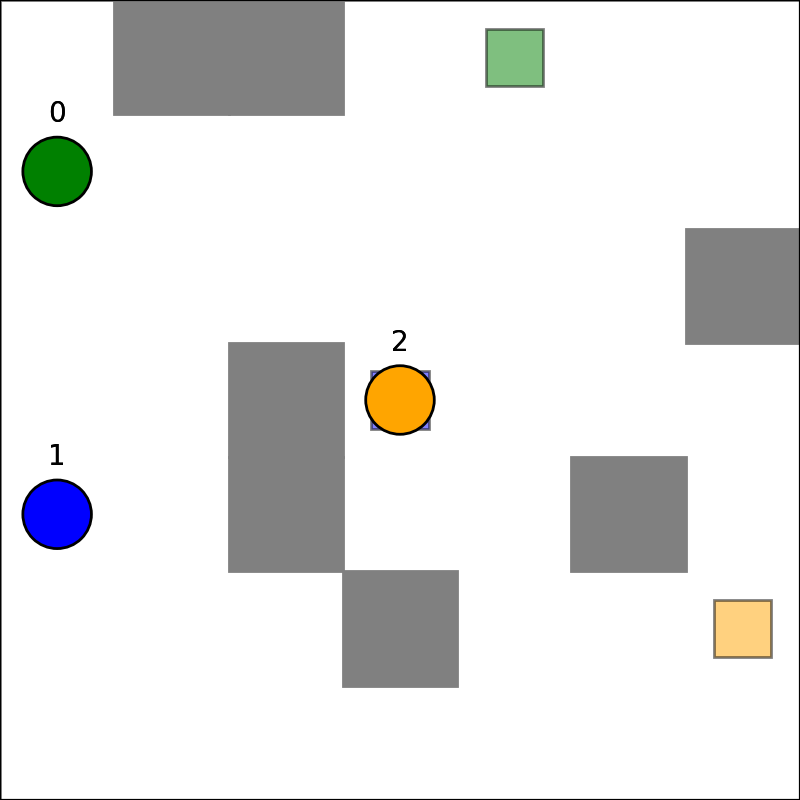
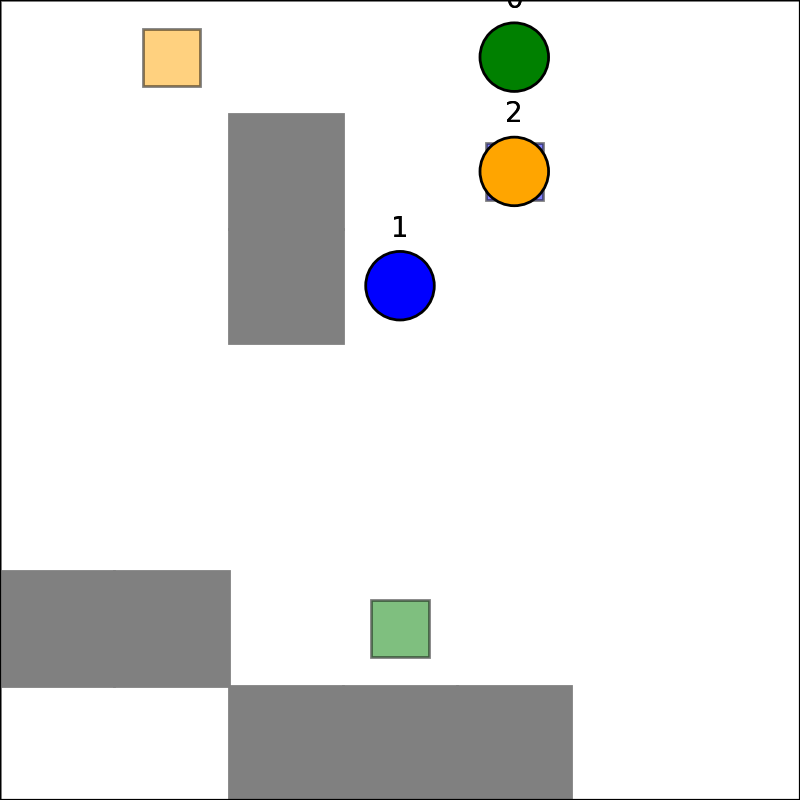
add solution gif to demo

diff --git a/templates/generate.html b/templates/generate.html
@@ -17,6 +17,7 @@
     </div>
 
 
+    <a type="button" class="btn btn-lg btn-primary" href="/figure"><span class="glyphicon glyphicon-download"></span> Let ICBS Solve it!</a>
     <div class="container">
         {% if message %}
             <p class="message">{{ message | safe }}</p>
@@ -29,6 +30,8 @@
             </div>
         </form>
     </div>
+
+
 </div>
 
 <script>

diff --git a/code/run_experiments_demo.py b/code/run_experiments_demo.py
@@ -39,11 +39,11 @@ from pathlib import Path
 
 SOLVER = "ICBS_CB"
 
-def create_plot(instance_file, figure_file):
+def create_plot(instance_file, map_file):
     my_map, starts, goals = import_mapf_instance(instance_file)
     figure = Figure(my_map, starts, goals)
     # figure.show()
-    figure.save(figure_file)
+    figure.save(map_file)
 
 def print_mapf_instance(my_map, starts, goals):
     print('Start locations')
@@ -103,6 +103,51 @@ def import_mapf_instance(filename):
     f.close()
     return my_map, starts, goals
 
+def create_animation(instance_file, figure_file, solver=None, disjoint=True):
+    if solver == None:
+        solver = "ICBS_CB"
+    my_map, starts, goals = import_mapf_instance(instance_file)
+    print_mapf_instance(my_map, starts, goals)
+
+    if solver == "CBS":
+        cbs = CBSSolver(my_map, starts, goals)
+        solution = cbs.find_solution(disjoint)
+
+        if solution is not None:
+            # print(solution)
+            paths, nodes_gen, nodes_exp = [solution[i] for i in range(3)]
+            if paths is None:
+                raise BaseException('No solutions')  
+        else:
+            raise BaseException('No solutions')
+
+    elif solver == "ICBS_CB":
+        cbs = ICBS_CB_Solver(my_map, starts, goals)
+        solution = cbs.find_solution(disjoint)
+
+        if solution is not None:
+            # print(solution)
+            paths, nodes_gen, nodes_exp = [solution[i] for i in range(3)]
+            if paths is None:
+                raise BaseException('No solutions')  
+        else:
+            raise BaseException('No solutions')
+
+    elif solver == "ICBS":
+        cbs = ICBS_Solver(my_map, starts, goals)
+        solution = cbs.find_solution(disjoint)
+
+        if solution is not None:
+            # print(solution)
+            paths, nodes_gen, nodes_exp = [solution[i] for i in range(3)]
+            if paths is None:
+                raise BaseException('No solutions')  
+        else:
+            raise BaseException('No solutions')
+
+    animation = Animation(my_map, starts, goals, paths)
+    # animation.save("output.mp4", 1.0)
+    animation.save(figure_file, 1)
 
 
 
@@ -164,7 +209,7 @@ if __name__ == '__main__':
         elif solver == "ICBS":
             print("***Run CBS***")
             cbs = ICBS_Solver(my_map, starts, goals)
-            solution = cbs.find_solution(args.disjoint)
+            solution = cbs.find_solution(disjoint)
 
             if solution is not None:
                 # print(solution)

diff --git a/app.py b/app.py
@@ -2,7 +2,7 @@ from flask import Flask, render_template, request
 import os
 # from flask_sqlalchemy import SQLAlchemy
 from code.generate_instance import write_instance
-from code.run_experiments_demo import create_plot
+from code.run_experiments_demo import create_plot, create_animation
 
 
 app = Flask(__name__,
@@ -41,6 +41,15 @@ def instance():
     create_plot(instance_path, figure_path)
 
     return render_template('generate.html', figure="content/figures/maps/newmap.png")
+
+@app.route('/figure')
+def figure():
+    instance_path = os.path.abspath("static/content/instances/new_instance.txt")
+    figure_path = os.path.abspath("static/content/figures/newfigure.gif")
+    # write_instance(file_loc=instance_path)
+    create_animation(instance_path, figure_path)
+
+    return render_template('generate.html', figure="content/figures/newfigure.gif")
 
 @app.route('/submit', methods=['POST'])
 def submit():
